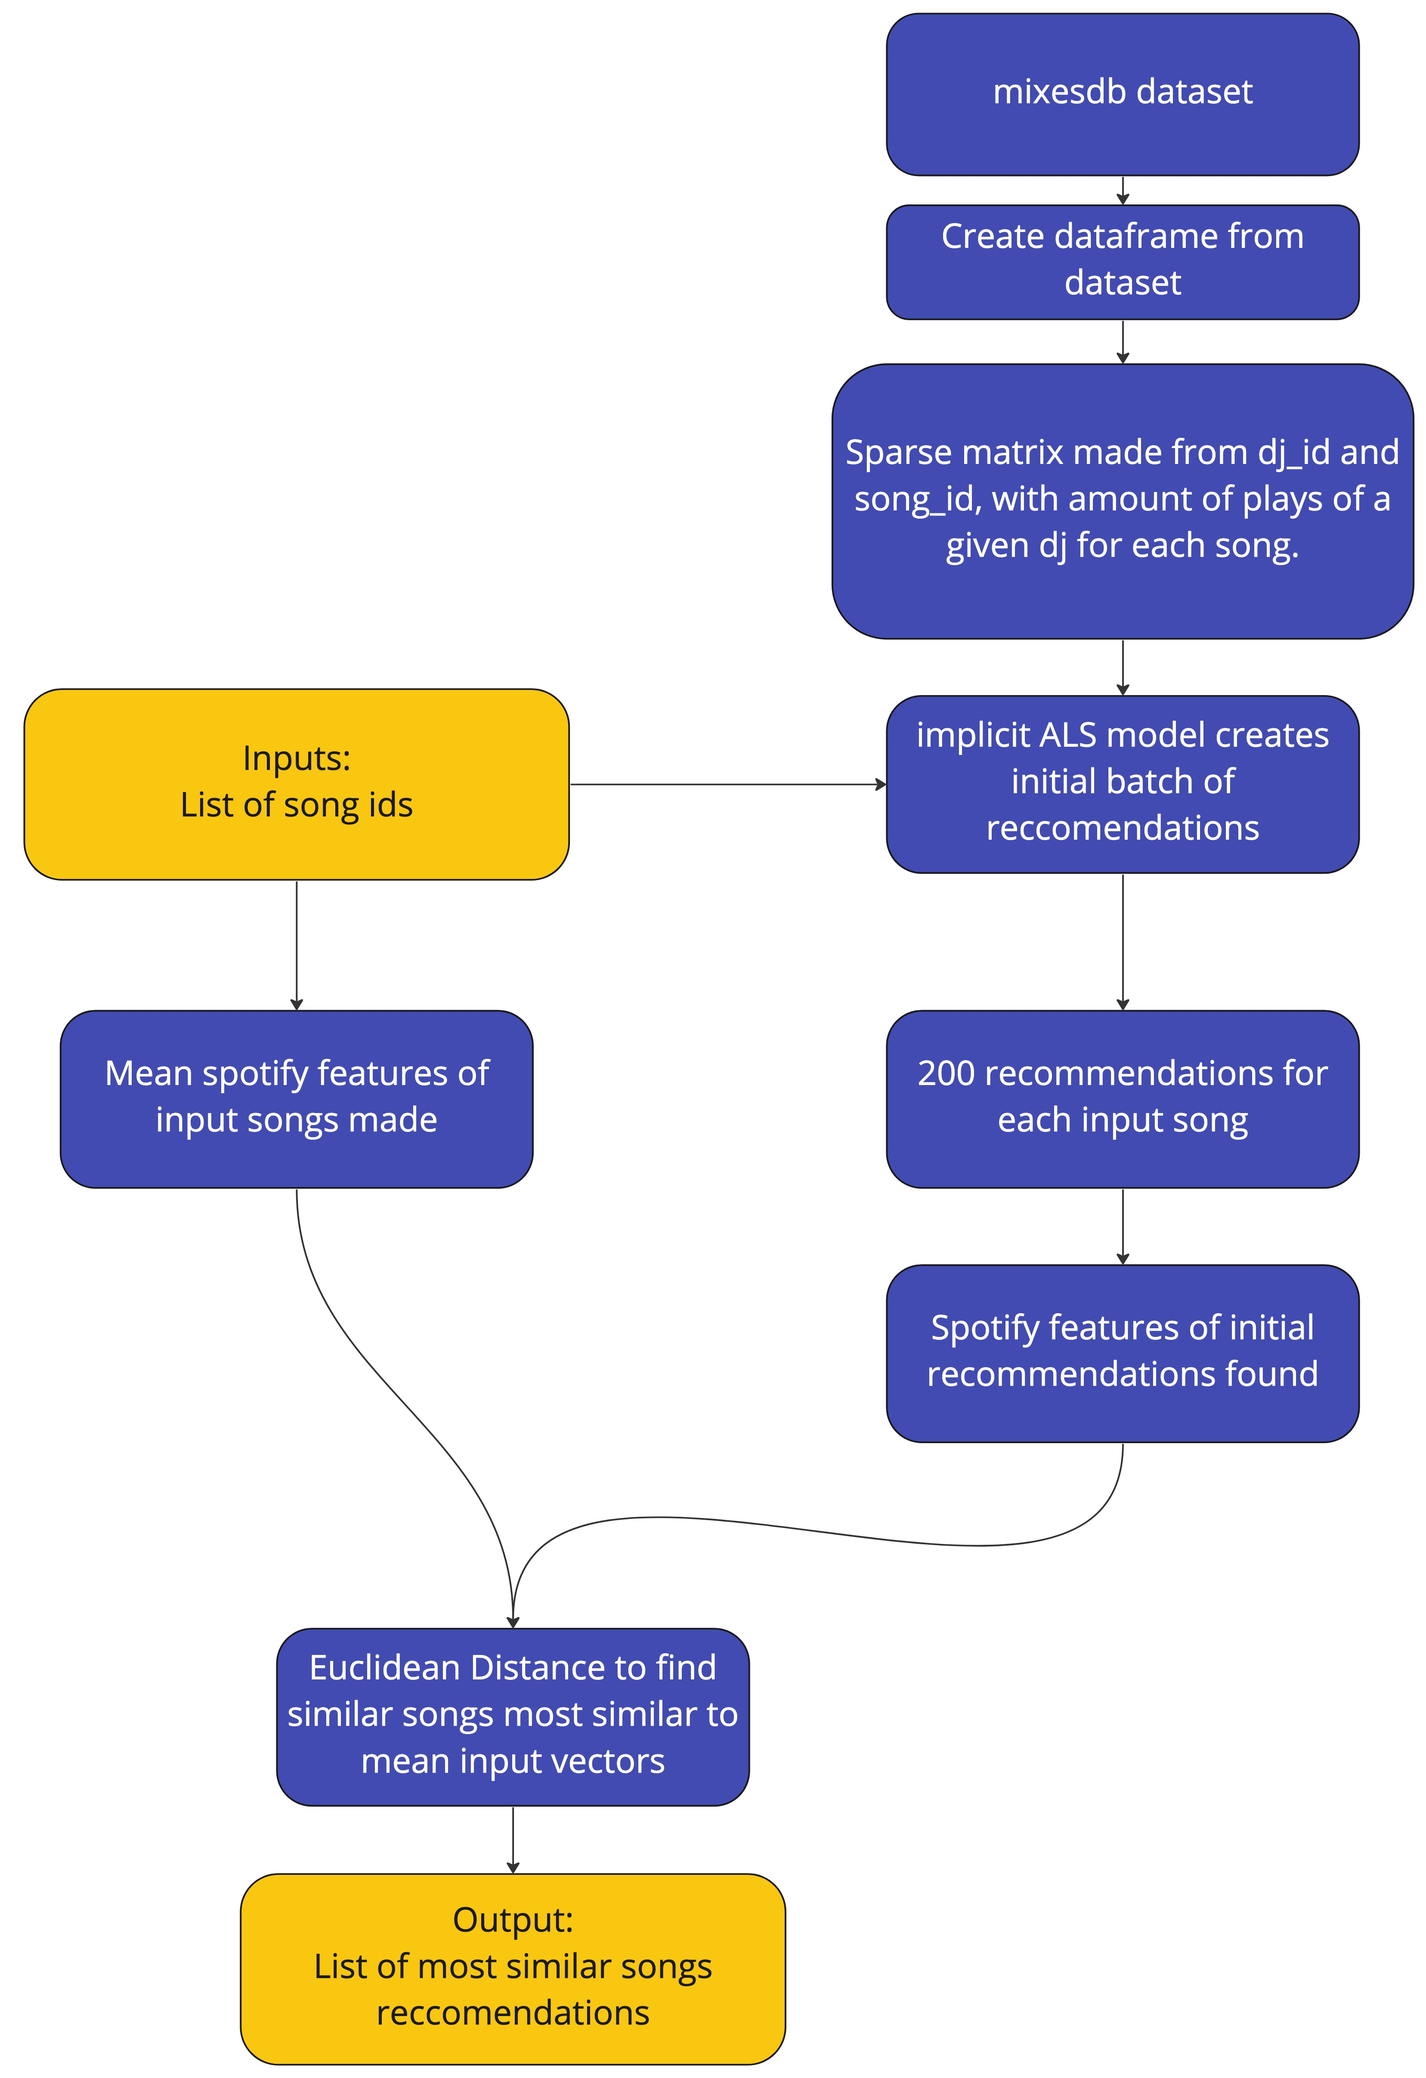
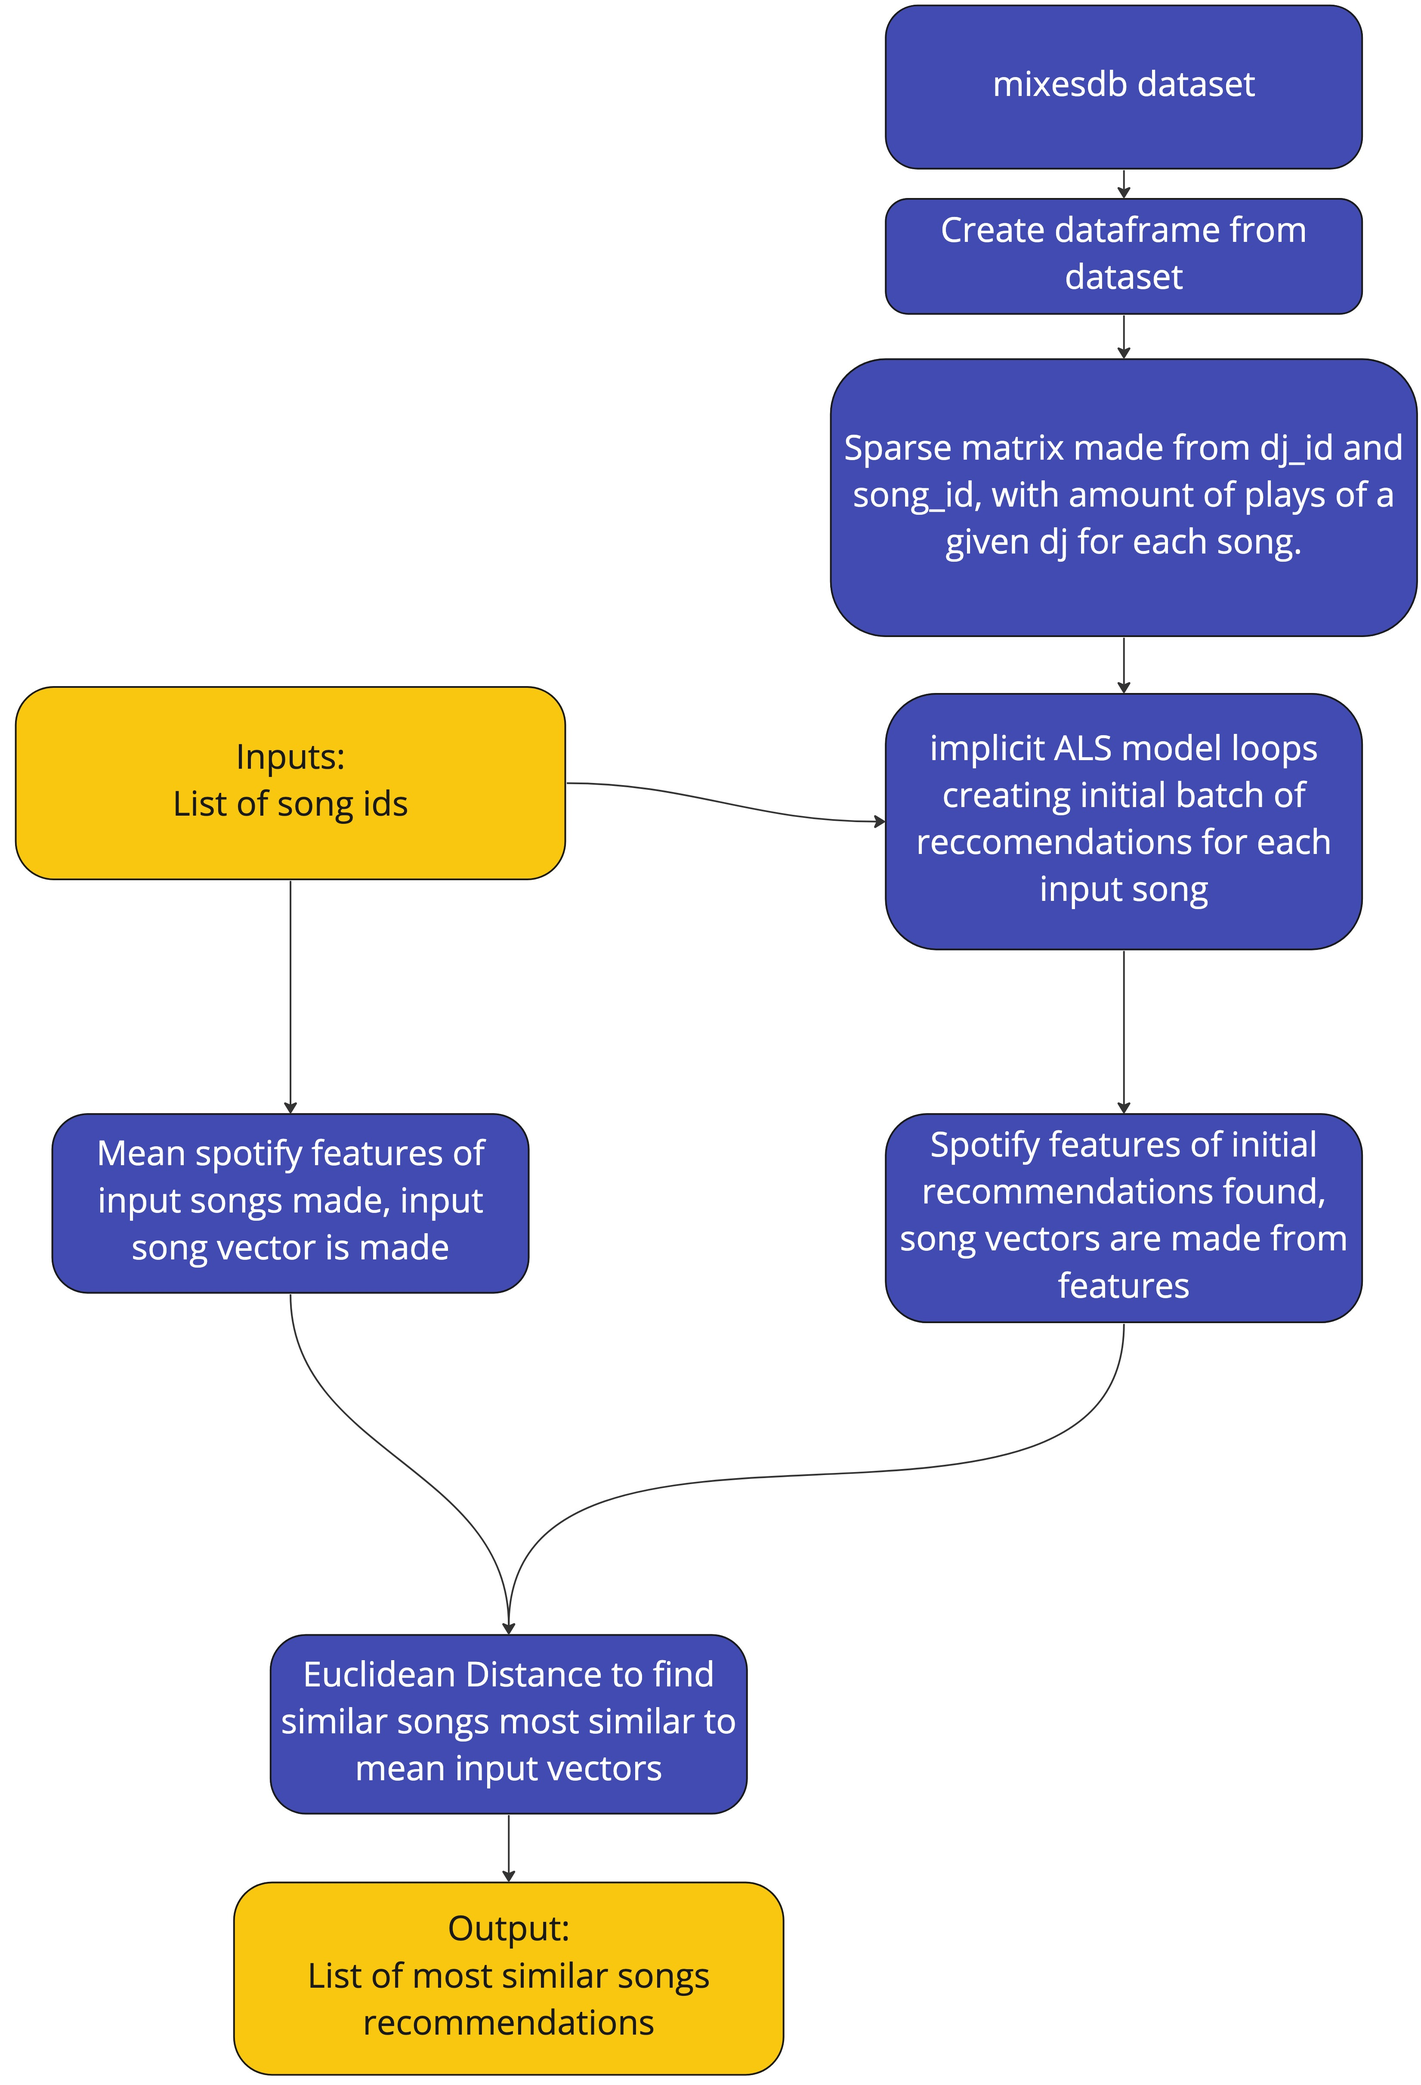
wen through application

diff --git a/doc/techProject/Chapter5/Chapter5.tex b/doc/techProject/Chapter5/Chapter5.tex
@@ -6,24 +6,25 @@
 
 \chapter{Application}
 
-Inspired by the training data from a fader estimation investigation, \textit{MixesDB} is a website of archived DJ sets \citep{kim_automatic_2017}. With over 260,000 mixes on the site, using this as a dataset to train the model proved to be an excellent choice \citep{mixesdb_main_2023}. As mentioned in Chapter 2, Daniel Chow built a system that takes in a single song and outputs similar songs based on the \textit{MixesDB} dataset \citep{chow_music_2020}. His code will provide the foundation, which is built upon by the inclusion of multiple inputs and an extra layer of filtering.
+Inspired by the training data from a fader estimation investigation, \textit{MixesDB} is a website of archived DJ sets \citep{kim_automatic_2017}. With over 260,000 mixes on the site, using this as a dataset to train the model proved to be an excellent choice \citep{mixesdb_main_2023}.
+ 
+ The application made is a two stage Music Recommendation system trained on DJ sets found on \textit{MixesDB}. A collaborative filtering algorithm, alternating least squares is used to gather initial suggestions. Then audio features provided by the Spotify API will be used to create vectors to further refine the selection. The best songs are selected by using euclidean distance, a way of measuring distances between vectors.
+ 
+ As mentioned in Chapter 2, Daniel Chow built a system that takes in a single song and outputs similar songs based on the \textit{MixesDB} dataset \citep{chow_music_2020}. His code will provide foundation, that is extended by the addition of multiple inputs and an extra layer of recommendation filtering.
 
 \section{Data set}
-As Chow details, data was scraped from the website \textit{MixesDB} done using Selenium \citep{chow_music_2020}. The tracks in a given DJ Set which had a corresponding Spotify link were stored with a given user ID for the DJ.  In cases where a single DJ set included multiple DJs, the set was considered as belonging to all the DJs involved, and the corresponding songs were linked to each DJ's user ID.  With the article being dated back in 2020, the data set only has DJ sets up to that year. The dataset has approximately 9900 DJ sets and 99100 songs. Figure 5.1 shows a DJ set from the dataset.
-\\
-\\
-\\
+The data was scraped from \textit{MixesDB} using Selenium \citep{chow_music_2020}. The tracks in a given DJ Set which had a corresponding Spotify link were stored with a given user ID for the DJ.  In cases where a single DJ set included multiple DJs, the set was considered as belonging to all the DJs involved, and the corresponding songs were linked to each DJ's user ID. The data set only has DJ sets up to 2020, the year Daniel Chow wrote the article. The dataset has approximately 9900 DJ sets and 99100 songs. Figure 5.1 shows a DJ set from the dataset.
 \begin{figure}[H]
-	\includegraphics[scale=0.45]{images/dataset}
+	\includegraphics[scale=0.4]{images/dataset}
 	\centering
 	\caption{Table showing a DJ Set in the dataset} 
 \end{figure}
 
 
 \section{Initial Suggestions}
-As in Daniel Chows method, the initial suggestions part of the model is made using alternating least squares, a matrix factorisation algorithm that was made popular by the Netflix Prize award \citep{zhou_large-scale_2008}. As explained in Chapter 2, it provides a computational way of handling a dataset, and it splits the DJ song matrix to its latent factors, revealing trends in between songs and DJs.
+As in Daniel Chows method, the initial suggestions part of the model is made using alternating least squares, a matrix factorisation algorithm that was made popular by the Netflix Prize award \citep{zhou_large-scale_2008}. As explained in Chapter 2, this method is good for two reasons. It provides a computationally efficient way of handling a dataset, and it splits the DJ song matrix to its latent factors. The latent factor values reveal trends in between songs and DJs.
 
-A model is made from the dataset, then a list of songs gets inputted. A for loop is ran that will find similar items with the alternating least squares algorithm for each song. the number of recommended song suggestions for each song was set to 200, to assure a large amount of similar songs are used in the next part of the model.
+A model is made from the dataset, then input list of songs is processed. The alternating least squares algorithm is ran for each song to find other similar songs. The number of recommended song suggestions for each song was set to 200, to assure a large amount of similar songs are used in the refinement stage.
 \begin{figure}[H]{\noindent\ignorespaces}
 	\includegraphics[scale=0.1]{images/application_app_flow}
 	\centering
@@ -31,38 +32,38 @@ A model is made from the dataset, then a list of songs gets inputted. A for loop
 \end{figure}
 
 \section{Final Suggestions}
-As of yet the code used is similar to Daniel Chow's, aside from iterating through many song inputs, instead of one \citep{chow_music_2020}. To add an extra layer of filtering, the Spotify API is used to further explore which songs are the most similar.
+To add an extra layer of filtering, the Spotify API is used to further explore which songs are the most similar.
 
 Using both the input songs, and initial suggestions, the Spotify API provides audio features for each song. The features used are shown below \citep{spotify_web_2023}:
 
 \begin{enumerate}
-	\item \textbf{acousticness} - A measure on how acoustic the song sounds (1 being definitely acoustic).
+	\item \textbf{acousticness} - A measure on how acoustic the song sounds, the range is from 0 - 1 with 1 being definitely acoustic and 0 being not acoustic at all.
 	\item \textbf{danceability} - Measurement on how suitable a track is for dancing based on tempo, rhythmic features and overall regularity. 1.0 is most danceable. 
 	\item \textbf{energy} - A measurement of intensity and activity. Typically, energetic tracks feel fast, loud, and noisy. A heavy metal track would score high, but a Bach prelude would score low. Attributes include dynamic range, perceived loudness, timbre, onset rate, and general entropy will dictate this value. 1.0 is highly energetic.
 	\item \textbf{instrumentalness} - Predicts whether a track contains no spoken vocals. Songs scoring 1 likely have no vocals. Values above 0.5 represent instrumental tracks.
-	\item \textbf{key} - The key the track is in uses following notation 0 = C, 1 = C$\sharp$/D$\flat$, 2 = D. If key cannot be detected then value is set to -1.
+	\item \textbf{key} - The tracks key uses the following notation 0 = C, 1 = C$\sharp$/D$\flat$, 2 = D. If key cannot be detected then value is set to -1.
 	\item \textbf{loudness} - Loudness of a given track in dB
 	\item \textbf{tempo} - The beats per minute of a given track.
 	\item \textbf{time\_signature} - Time signature with the following notation, 3 = 3/4, 4= 4/4, 5 = 5/4.
 	\item \textbf{speechiness} - Detects if a song has spoken word, audio books would score 1 and values ranging from 0.3-0.6 would be combination of music and speech.
-	\item \textbf{valence} - A measurement of how positive a song is. With scores of 1 being extremely positive.
+	\item \textbf{valence} - A measurement of how happy sounding a song is. With scores of 1 being extremely positive.
 	
 \end{enumerate}
 
 These features provided great data to form vectors out of for each song, as they highlight attributes of a song which makes them unique. Attributes like tempo is especially helpful for improving the recommendations for DJ Sets, due to being the controlled variable when it comes to transition from one song to another.
 
-The input contains many songs, so for calculating euclidean distance, a mean vector is created from all the input song vectors. The vectors are then scaled. This step is crucial because some attributes work with different ranges, examples being loudness uses dB range and acousticness is from 0-1.
+As the input contains many songs, multiple steps are required to calculate euclidean distance. A mean vector is created from all the input song vectors. The vectors are then scaled. This step is crucial because some attributes work with different ranges, examples being loudness using dB range and acousticness is from 0-1.
 
-Once these are found, euclidean distance between each initially suggested songs vector and the input average vector is calculated. As discussed in chapter 2, euclidean distance is a way of measuring the distance between two vectors. An equation is show below, allowing $x_{i}$ and $y_{i}$ to be two song vectors.
+Once these are found, euclidean distance between each initially suggested songs vector and the input average vector is calculated. As discussed in chapter 2, euclidean distance is a way of measuring the distance between two vectors, an equation is show at 5.1, allowing $x_{i}$ and $y_{i}$ to be two song vectors.
 
 \begin{equation}
 	d(x,y) = \sqrt{\sum _{i=1} ^{n}(x_{i} - y_{i})^{2}}
 \end{equation}
 
-For finding the vectors with the smallest distance between the mean input, this is a clear representation that a given song has similar Spotify features attributes, therefore would be a worthy suggestions based on the recommended songs.
+For finding the vectors with the smallest distance between the mean input, this is a clear representation that a given song has similar Spotify features attributes, therefore would be a worthy suggestion based on the recommended songs.
 
 \section{Example Findings}
-To demonstrate the application in a non methodical way. A variety of DJ Set tracklists corresponding to different genres were used as inputs for the application.  Three different DJ sets were used:
+To spot-check the application in a non methodical way, a variety of DJ Set tracklists corresponding to different genres were used as inputs for the application.  Three different DJ sets were used:
 
 \begin{itemize}
 	\item \textbf{Rory Bowens, PLO Man, C3D-E, Brian Not Brian - The Slip, NTS Radio: } 
@@ -86,11 +87,17 @@ To demonstrate the application in a non methodical way. A variety of DJ Set trac
 
 When going through the recommended songs, the BPMs of the output songs were observed to see if they were around the same range as the input songs. The songs were listened to see if stylistically they were similar to the input songs, and the source of the recommended songs were also observed.
 
-The Slip set performed okay. Expectations were low due to the small amount of tracks available. Two of them had a House style to them and one was Indie. The output songs were all House songs and none matched stylistically to the one indie song. However, all the BPM's were in a similar range around 110-120 BPM. The Moxie set performed very well. The input songs were all Tech-House songs and the output songs were that as well with a couple of more disco inspired tunes. BPM's were all very similar as well. The Keep Hush set also gave good results. The BPM ranges were similar to the input songs and stylistically matched the input songs well. 
+\begin{itemize}
+	\item The Slip set performed okay. Expectations were low due to the small amount of tracks available. Two of them had a House style to them and one was Indie. The output songs were all House songs and none matched stylistically to the one indie song. However, all the BPM's were in a similar range around 110-120 BPM.
+	\item The Moxie set performed very well. The input songs were all Tech-House songs and the output songs were that as well with a couple of more disco inspired tunes. BPM's were all very similar as well.  
+	\item The Keep Hush set also gave good results. The BPM ranges were similar to the input songs and stylistically matched the input songs well. 
+\end{itemize}
 
-All the suggested tunes did not come from an eclectic mix of DJ Sets or DJs, in each batch of suggestions a lot of songs were either from the same mix or the same DJ. This is most likely due to the sparsity of the dataset, which is value of 99.98\% is not ideal for a training set. 
+ 
 
-The intent of displaying this is more to show the application in action rather than dissecting the quality of its performance which is analysed in the Experiment chapter. A table of the input and recommended songs for the Moxie DJ set is shown below.
+All the suggested tunes did not come from an eclectic mix of DJ Sets or DJs, in each batch of suggestions a lot of songs were either from the same mix or the same DJ. 
+
+The intent of the spot checking is to show the application in action rather than dissecting the quality of its performance which is analysed in the Experiment chapter. A table of the input and recommended songs for the Moxie DJ set is shown in the table below.
 \\
 \\
 \\
@@ -126,6 +133,6 @@ The intent of displaying this is more to show the application in action rather t
 
 
 \section{Summary}
-An overview of the proposed application was given. The first part described the alternating least squares method that is borrowed from Daniel Chow's model. Then the audio features found through the Spotify API was explained, and how it was used to form vectors. These vectors were then used to filter through the recommendations further. A non methodical demonstration was conducted showing pretty good recommendations.
+An overview of the proposed application was given. The first part described the alternating least squares method that is borrowed from Daniel Chow's model. Then the audio features found through the Spotify API was explained, and how it was used to form vectors. These vectors were then used to filter through the recommendations further. Spot checking was done showing suitable recommendations.
 
 

diff --git a/doc/techProject/Chapter2/Chapter2.tex b/doc/techProject/Chapter2/Chapter2.tex
@@ -211,9 +211,9 @@ Another method of finding similar items is Clustering. Clustering is when one  g
 
 Recommendation systems are used extensively by the majority of Spotify users \citep{spotify_spotify_2020}. However, there are a subsection of users who, despite huge breakthroughs, don't rely on algorithmic means of discovering music. In 2020, a study done found that users with more diverse tastes would find music in non algorithmic ways \citep{anderson_algorithmic_2020}. Users with less diverse taste relied on algorithms for recommendations. Users who's taste became more diverse, occurred from non algorithmic ways of finding music.
 
-A reason for this is the quantity of recommendations given, potentially causing choice overload \citep{iyengar_rethinking_1999}. This may do with the lack of refinement when it comes to training models, lots of music recommendation systems don't focus on a specific type of person when training a model \citep{laplante_improving_2014}.
+A reason for this is the small amount of listeners who have a diverse taste, lots of music recommendation systems don't focus on a specific type of person when training a model \citep{laplante_improving_2014}.
 
-A reason for this issue could be due to the classification is handled in music, a debate that is passed from generations \citep{moles_sociodynamique_2019} \citep{dimaggio_classification_1987} \citep{bourdieu_distinction_2010}. In the context of a recommendation system, a genre being treated as a "tag" usually pushes its social and cultural relevance to the side \citep{porcaro_diversity_2021}. The act of a machine understanding a concept as subjective as genre is one that is proven challenging \citep{nurnberger_survey_2014}. Vlegels attempts to overcome this by organise groupings based on user artist relationship, rather than a artists genre \citep{vlegels_music_2017}.
+It's argued that the way classification is handled in music could also be a reason \citep{porcaro_diversity_2021}. A debate that is passed from generations \citep{moles_sociodynamique_2019} \citep{dimaggio_classification_1987} \citep{bourdieu_distinction_2010}. In the context of a recommendation system, a genre being treated as a "tag" usually pushes its social and cultural relevance to the side \citep{porcaro_diversity_2021}. The act of a machine understanding a concept as subjective as genre is one that is proving challenging \citep{nurnberger_survey_2014}. Vlegels attempts to overcome this by organise groupings based on user artist relationship, rather than an artists genre \citep{vlegels_music_2017}.
 
 This problem existing could be a reason for the continued need for "curation", the act of having a professional spot interesting things and document them to consumers \citep{barna_perfect_2017}. With this comes the role of a DJ, whom before recommendation systems existed, were doing just that \citep{percival_music_2011}. 
 
